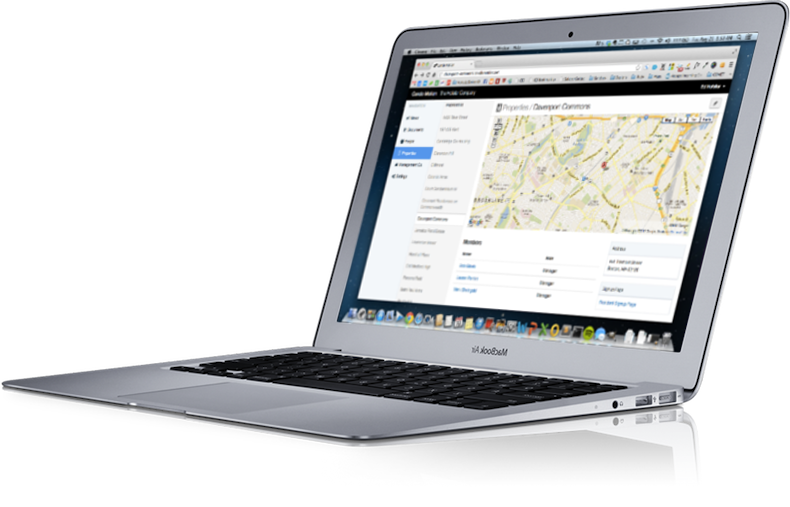
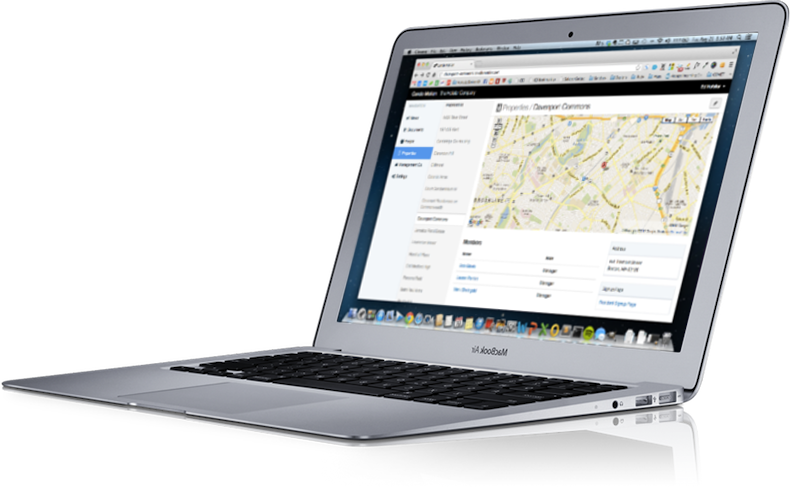
crop macbook image and remove negative margin

Changed region(s): [[0.0, 0.0308, 1.0, 0.924], [0.7595, 0.0, 0.9418, 0.0308]]

diff --git a/app/assets/stylesheets/home.css.scss b/app/assets/stylesheets/home.css.scss
@@ -72,8 +72,7 @@ body.home, body.passwords, body.sessions, body.registrations {
     margin: 20px 0 30px 0;
   }
   #macbook {
-    position: relative;
-    bottom: -20px;
+    margin-top: 20px;
   }
 }
 
